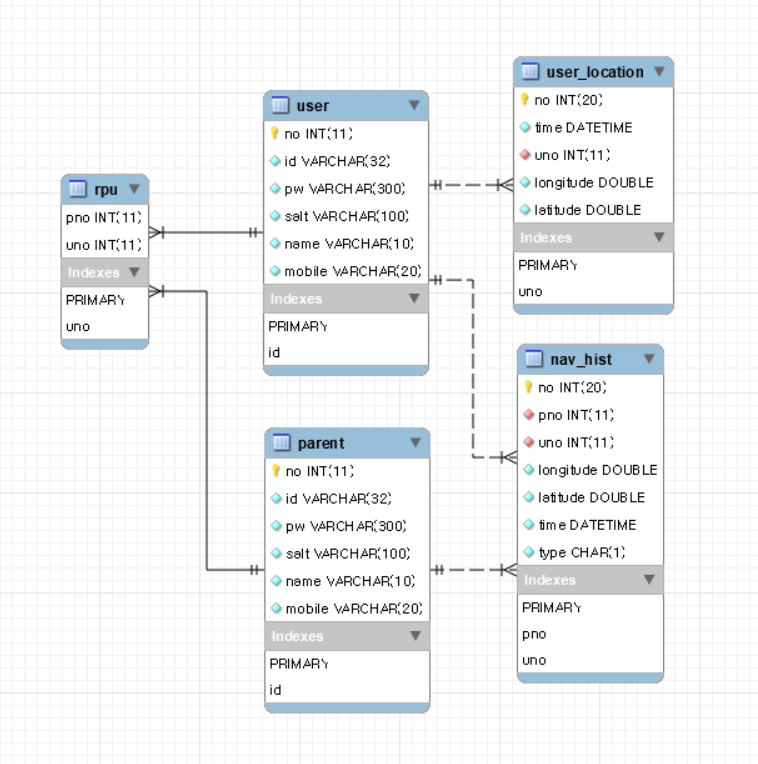
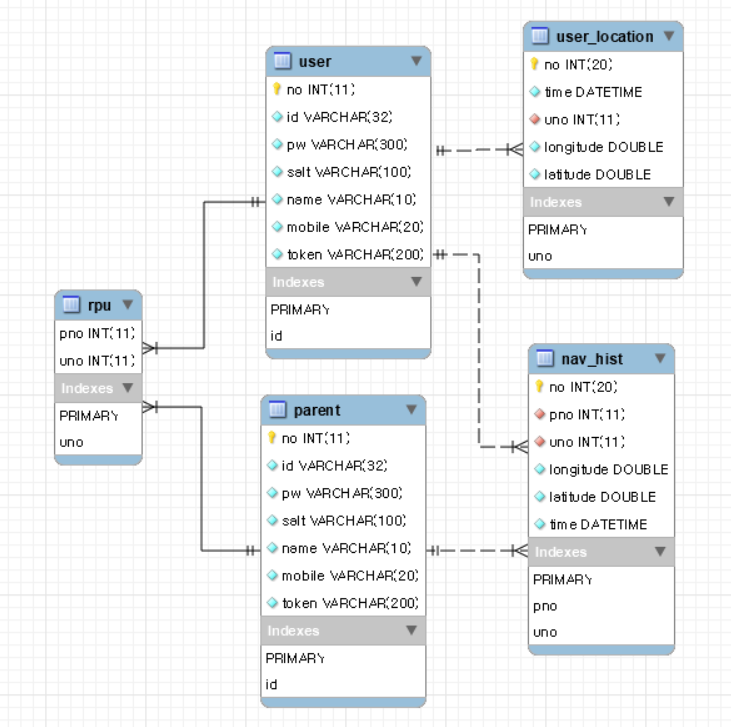
README Update & EER Diagram Changed

Changed region(s): [[0.0602, 0.0303, 0.933, 0.9986]]

diff --git a/DB/README.md b/DB/README.md
@@ -4,7 +4,16 @@
 I Stick DataBase Notification
 
 <h1>2018-10-13 Table 구조 변경</h1>
-사용자들의 password에 암호화를 하여 저장하도록 일부 테이블 속성 추가
+<ul>
+    <li>사용자들의 password에 암호화를 하여 저장하도록 일부 테이블 속성 추가</li>
+</ul>
 
 <h1>2018-11-12 nav_hist Table 추가</h1>
-보호자가 지정해준 사용자의 목적지의 위치를 담은 테이블 추가
+<ul>
+    <li>보호자가 지정해준 사용자의 목적지의 위치를 담은 테이블 추가</li>
+</ul>
+
+<h1>2018-11-24 FCM 도입으로 인한 DB수정</h1>
+<ul>
+    <li>user, parent, nav_hist의 column 수정</li>
+</ul>

diff --git a/Nodejs/README.md b/Nodejs/README.md
@@ -54,8 +54,17 @@ I Stick Server Notification using Nodejs
 <ul>
   <li>보호자 사용자의 목적지 지정 기능 테스트 서버 추가 ./lib/parent/setDestination</li>
 </ul>
+
 <h1>2018-11-12</h1>
 <ul>
   <li>./lib/parent/setDestination 기능 구현 완료</li>
   <li>./lib/user.user: 보호자가 지정해준 목적지 위치정보 수신기능 구현 - DB수정</li>
 </ul>
+
+<h1>2018-11-24</h1>
+<ul>
+  <li>FCM 기능 추가</li>
+  <li>user.js 와 parent.js FCM추가</li>
+  <li>register.js login.js의 수정</li>
+</ul>
+

diff --git a/Android/README.md b/Android/README.md
@@ -33,3 +33,9 @@ Android Code Repository
   <li>경위도 <-> 좌표 변환 알고리즘 추가</li>
   <li>Feedback: 주소검색시 나오는 null값 제거 (PoiListViewAdapter)</li>
 </ul>
+
+<h1>2018-11-24</h1>
+<ul>
+  <li>FCM 기능 추가, Service 클래스들의 추가와 FindPathTask의 위치 변경(Gradle추가)</li>
+  <li>Debug: 이미 User의 목적지로 가능 경로가 있을 때, 보호자가 새로운 목적지 지정시 프로그램이 종료되던 에러 수정 - UserActivity</li>
+</ul>
